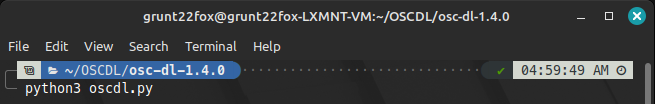
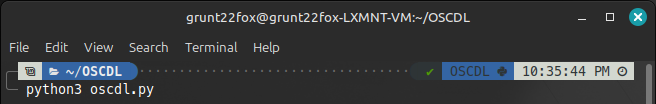
Modify Linux/MacOS installation instructions for OSC to use a virtual environment (#180)
* Change instructions to create virtual environment

* Change warning to notify about VENV

* Rename image to resolve missing file issue

* Modify img link to reflect filename change (oops)

* Specify alias differences for Python on Linux

diff --git a/docs/osc.md b/docs/osc.md
@@ -71,24 +71,32 @@ If you get a User Account Control pop-up that asks whether or not you would like
 
 ::: warning
 
-You will need Python 3 installed in order to use OSCDL on these platforms.
+You will need Python 3 installed in order to use OSCDL on these platforms. Please note that on certain distros, Python 3 may use either `python` or `python3` as an alias, please be aware of this for Step 6. You will also create a virtual environment to isolate OSCDL and its dependencies from your base Python installation.
 
 :::
 
-1. Download the source code for OSCDL, either the `.zip` or the `.tar.gz`.
+1. Download the source code for OSCDL, either the `.zip` or the `.tar.gz`. Optionally, you can instead run `git clone https://github.com/dhtdht020/osc-dl.git` in the directory you would like to use OSCDL in.
 
     ![](/images/osc/source-code-download-OSCDL.png)
 
-1. Extract the archive to a location on your computer that you would like to use OSCDL in.
-1. Open the location of the extracted files in a terminal and run the command `pip install -r requirements.txt`. This will download Python packages needed to run OSCDL.
+1. If you chose to download the source code, extract the archive to a location on your computer that you would like to use OSCDL in.
+1. Open the location of the extracted files in a terminal and run the command `python3 -m venv venv` to create a virtual environment. Note that, if you receive a message that `ensurepip` is not available, you must install the `python3-venv` package for your distribution. Python may provide a command for you to use to accomplish this.
+
+    ![](/images/osc/create-virtual-environment.png)
+
+1. Run the command `source venv/bin/activate` to activate the virtual environment.
+
+    ![](/images/osc/activate-virtual-environment.png)
+
+1. Run the command `pip install -r requirements.txt`. This will download Python packages needed to run OSCDL.
 
     ![](/images/osc/satisfy-requirements-OSCDL.png)
 
-1. Run the command `python3 oscdl.py`. This will open the program. Optionally, you can also create a desktop shortcut that runs this command for easier access.
+1. Run the command `python3 oscdl.py`. This will open the program. If you choose to keep the terminal open, you can use `deactivate` to exit the virtual environment. Additionally note that you must run `source venv/bin/activate` in the directory where OSCDL was extracted every time you open a new terminal. This is in order to load the dependencies needed to run OSCDL.
 
     ![](/images/osc/run-OSCDL-terminal.png)
 
-1. Find an application that you would like to get, and press the Download button. Alternatively, you can send the app directly to your Wii (this requires that your computer and Wii be on the same network).
+1. Once OSCDL is open, find an application that you would like to get, and press the Download button. Alternatively, you can send the app directly to your Wii (this requires that your computer and Wii be on the same network).
 
     ![](/images/osc/app-download-OSCDL-linux.png)
 
